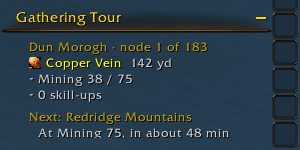
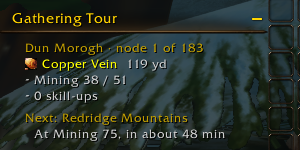
fix: gathering fixes for 0.1.1 (#52)
* fix: gathering fixes for 0.1.1

A closed Gathering page redrew its zone preview on every tour update, so
the page now draws only while the tab module reports it shown.

A page with no zone says how to import GatherMate2_Data when GatherMate2
holds no node for the player's professions, and the README and store page
list the steps.

Demonsage and Heavy Thorium Vein join the node data at skill 300, from
Wowhead's Forever object tooltips. Marefoil stays out: no source gives its
requirement.

Claude-Session: https://claude.ai/code/session_01UkMWrzUUXUNU1mLFMDKVaL

* docs: say which tours visit the nodes at the skill cap

Refs #36

Claude-Session: https://claude.ai/code/session_01UkMWrzUUXUNU1mLFMDKVaL

* fix: count the tracker's skill line to the next colour change

The skill line read the trained cap. It now reads the skill against the rank
at which a node on the loop next changes colour, and the skill alone once
none will.

Closes #53

Claude-Session: https://claude.ai/code/session_01UkMWrzUUXUNU1mLFMDKVaL

* chore: ship ForeverCore 1.17.7 so the last tracker line draws in full

Closes #49

Claude-Session: https://claude.ai/code/session_01UkMWrzUUXUNU1mLFMDKVaL

* fix: say the empty database fills from GatherMate2_Data, installed or not

The line told players to install GatherMate2_Data even when it was already
installed and only the import was missing.

Claude-Session: https://claude.ai/code/session_01UkMWrzUUXUNU1mLFMDKVaL
[…]

diff --git a/README.md b/README.md
@@ -29,7 +29,7 @@ Only the nodes still to visit get a pin, showing the herb or ore, and the next o
 
 <p align="center"><img src="docs/screenshots/gathering-tracker.png" width="300" alt="The Gathering Tour section of the objective tracker"></p>
 
-The objective tracker shows the next node and its distance, your place in the loop, each skill and your skill-ups, what you gathered, your gold per hour and the zone to move on to.
+The objective tracker shows the next node and its distance, your place in the loop, each skill against the next node colour change, your skill-ups, what you gathered, your gold per hour and the zone to move on to.
 
 <p align="center"><img src="docs/screenshots/gathering-map-setting-off.png" width="960" alt="The same map with Only show Gathering pins on the map turned off, showing every GatherMate2 icon"></p>
 
@@ -52,6 +52,13 @@ Farm for a list instead: add herbs and ores, type how many you need of each, and
 Download the zip from [Releases](https://github.com/cjber/gathering-guide-forever/releases) and extract it into the WoW: Forever client's `Interface/AddOns/` folder (`_forever_` on the live client), so you end up with `AddOns/GatheringGuideForever/GatheringGuideForever.toc`. The zip includes ForeverCore, so there is nothing else to install.
 
 It needs [GatherMate2](https://www.curseforge.com/wow/addons/gathermate2) for node locations and [Shortest Path Forever](https://www.curseforge.com/wow/addons/shortest-path-forever) to walk a tour. Without Shortest Path Forever you can still plan.
+
+GatherMate2 starts with no node locations and records each node you gather. To fill it at once:
+
+1. Install [GatherMate2_Data](https://www.curseforge.com/wow/addons/gathermate2_data) and enable it.
+2. Type `/gathermate` and open Import.
+3. Under Databases to Import, tick Herbalism and Mining.
+4. Click Import GatherMate2Data.
 
 ## Quickstart
 
@@ -83,7 +90,7 @@ Saved farming settings from Shortest Path Forever are read once and never change
 - The time to a skill assumes the same loop every lap. It is left off when the loop's nodes cannot take you that far.
 - Nodes are whatever your GatherMate2 database holds.
 - Node and item names are in English in every client language.
-- Heavy Thorium Veins, Demonsage and Marefoil are left out: the skill they need is not known yet.
+- Marefoil is left out: the skill it needs is not known yet.
 
 ## Credits
 
@@ -128,6 +135,6 @@ python3 tools/repo_rules.py
 
 [AGENTS.md](AGENTS.md) lists the full gate.
 
-**Releasing:** move the `[Unreleased]` notes in `CHANGELOG.md` under `## [X.Y.Z] - YYYY-MM-DD`, then `git tag -s vX.Y.Z && git push --tags`.
+**Releasing:** `python3 tools/changelog.py release X.Y.Z` writes that version's `CHANGELOG.md` section from the notes in `changes/`. Merge it, then `git tag -s vX.Y.Z && git push origin vX.Y.Z`.
 
 See [CONTRIBUTING](https://github.com/cjber/.github/blob/main/CONTRIBUTING.md) and [SECURITY](https://github.com/cjber/.github/blob/main/SECURITY.md).

diff --git a/docs/curseforge.md b/docs/curseforge.md
@@ -2,6 +2,8 @@ Gathering Guide Forever plans a mining and herbalism skill-up tour in WoW: Forev
 
 It needs [GatherMate2](https://www.curseforge.com/wow/addons/gathermate2) for node locations and [Shortest Path Forever](https://www.curseforge.com/wow/addons/shortest-path-forever) to walk a tour.
 
+GatherMate2 starts with no node locations and records each node you gather. To fill it at once, install [GatherMate2_Data](https://www.curseforge.com/wow/addons/gathermate2_data), type `/gathermate`, open Import, tick Herbalism and Mining and click Import GatherMate2Data.
+
 Free, with nothing locked behind it. If it saves you time, you can [sponsor me on GitHub](https://github.com/sponsors/cjber), which takes no fees, or [buy me a coffee on Ko-fi](https://ko-fi.com/cjber). For help and each day's release notes, [join me on Discord](https://discord.gg/FpHugGxRJY).
 
 [![Join me on Discord](https://raw.githubusercontent.com/cjber/gathering-guide-forever/main/docs/discord-button.png)](https://discord.gg/FpHugGxRJY) [![Sponsor me on GitHub](https://raw.githubusercontent.com/cjber/gathering-guide-forever/main/docs/github-sponsors-button.png)](https://github.com/sponsors/cjber) [![Support me on Ko-fi](https://raw.githubusercontent.com/cjber/gathering-guide-forever/main/docs/kofi-button.png)](https://ko-fi.com/cjber)
@@ -24,7 +26,7 @@ Only the nodes still to visit get a pin on the world map, showing the herb or or
 
 ![The Gathering Tour section of the objective tracker](https://raw.githubusercontent.com/cjber/gathering-guide-forever/main/docs/screenshots/gathering-tracker.png)
 
-The objective tracker shows the next node and its distance, your place in the loop, each skill and your skill-ups, what you gathered, your gold per hour and the zone to move on to.
+The objective tracker shows the next node and its distance, your place in the loop, each skill against the next node colour change, your skill-ups, what you gathered, your gold per hour and the zone to move on to.
 
 ![A farming list and the best zone to farm it](https://raw.githubusercontent.com/cjber/gathering-guide-forever/main/docs/screenshots/gathering-list.png)
 
@@ -44,7 +46,7 @@ These images are captures from the game client.
 
 Skill-up chances follow Classic's rule: certain while your skill is under 25 above a node's requirement, then 75%, 25% and never from 100 above. WoW: Forever may differ.
 
-Node and item names are in English in every client language. Heavy Thorium Veins, Demonsage and Marefoil are left out: the skill they need is not known yet.
+Node and item names are in English in every client language. Marefoil is left out: the skill it needs is not known yet.
 
 A lap takes at least ten minutes, the assumed time a node needs to respawn: no source gives Forever's real time. A zone's rate also counts the trip there from where you stand when it is planned. The time to a skill is left off when a loop's nodes cannot take you that far.
 

diff --git a/THIRD_PARTY.md b/THIRD_PARTY.md
@@ -8,9 +8,10 @@ whether any of it reaches the zip players install. The addon itself is GPL-3.0-o
 | Input | Used for | Pin | Licence |
 |---|---|---|---|
 | [Shortest Path Forever](https://github.com/cjber/shortest-path-forever) | The loop order (`Journey/Order.lua`) and the stop batching (`Journey/Tour.lua`) are ported from its farming tour, `Journey/FarmingOrder.lua` and `Journey/FarmingCursor.lua` | Its `main` branch when ported | GPL-3.0-or-later |
-| [SkillUp Forever](https://github.com/cjber/skillup-forever) `Data/Sources.lua`, from [CMaNGOS classic-db](https://github.com/cmangos/classic-db) and wago.tools | The skill each herb and ore node needs, in `Data/NodeSkills.lua` | classic-db `22b51464f1625f6ef6275771de1f5466c6f5d19e`; wago.tools Lock, `wow_classic_beta 1.60.1.70959` | GPL-3.0 |
+| [SkillUp Forever](https://github.com/cjber/skillup-forever) `Data/Sources.lua`, from [CMaNGOS classic-db](https://github.com/cmangos/classic-db) and wago.tools | The skill each herb and ore node needs, in `Data/NodeSkills.lua`, except Demonsage and Heavy Thorium Vein | classic-db `22b51464f1625f6ef6275771de1f5466c6f5d19e`; wago.tools Lock, `wow_classic_beta 1.60.1.70959` | GPL-3.0 |
 | [GatherMate2](https://www.curseforge.com/wow/addons/gathermate2) by Kagaro, Xinhuan, Nevcairiel and Ammo | The node ID numbers and English names in `Data/NodeNames.lua`, from its `Constants.lua`. Node locations are read from the player's own database at runtime; `Core/GatherMate.lua` is a reader written for this addon | GatherMate2 1.52.7 | GPL-2.0-or-later |
-| [wago.tools](https://wago.tools/db2/ItemSparse) ItemSparse | The item ID of each herb and ore, in `Data/Items.lua` | `1.60.1.71091` | Game data |
+| [wago.tools](https://wago.tools/db2/ItemSparse) ItemSparse | The item ID of each herb and ore, in `Data/Items.lua` | `1.60.1.71091`; Demonsage and Heavy Thorium Ore `1.60.1.71139` | Game data |
+| Wowhead's Forever tooltips for objects [566786](https://nether.wowhead.com/forever/tooltip/object/566786) and [566779](https://nether.wowhead.com/forever/tooltip/object/566779) | The skill Demonsage and Heavy Thorium Vein need, in `Data/NodeSkills.lua` | Read 27 November 2026 | Game data |
 
 The map pins in `media/Nodes/`, one per herb and ore, are original art made for this addon with AI assistance
 (Google's `gemini-nano-banana-2.1`) and no Blizzard art. `tools/export_nodes.py` exports them from the originals in

diff --git a/CHANGELOG.md b/CHANGELOG.md
@@ -8,6 +8,22 @@ Added/Fixed lists.
 
 Each version's entry is also its release notes on GitHub and CurseForge.
 
+## [0.1.1] - 2026-11-27
+
+### Added
+
+- **Demonsage and Heavy Thorium Veins.** Both now show on the zone pages and in the farming list, at skill 300, with Demonsage and Heavy Thorium Ore as list items. They give no skill-up at the skill cap, so farming list tours visit them, and zone tours do with **Skip nodes with no skill-up** turned off.
+
+### Changed
+
+- **An empty GatherMate2 database says what to do.** With no nodes for your professions, the Gathering page explains how to import them with GatherMate2_Data, and the README lists the steps.
+
+### Fixed
+
+- **The tracker counts to the next colour change.** Each skill line shows your skill against the rank at which a node on the loop next changes colour, such as Mining 38 / 51 on a Copper loop, in place of your trained cap.
+- **A closed Gathering page stays off the map.** A tour update no longer brings back the pins of the zone you were viewing after you close the page.
+- **The last tracker line is drawn in full.** Letters such as g and y, and commas, keep their lower parts.
+
 ## [0.1.0] - 2026-11-26
 
 <!-- discord-image: docs/screenshots/gathering-tour.png -->

diff --git a/AGENTS.md b/AGENTS.md
@@ -31,7 +31,8 @@ required check. `headless-smoke` is a commit status posted from the in-game agen
 - Shortest Path Forever is reached only through `Core/Navigation.lua`, using its published `ShortestPathForever.API`
   (`NavigateRoute` with `{policy = "walking"}`, `ObserveStops`, `JourneyState`, `Cancel`, `Estimate`). Settings may read
   its saved farming options once, read-only. `tools/repo_rules.py` enforces this.
-- Node skill requirements are `Data/NodeSkills.lua`, copied from SkillUp Forever's data; GatherMate2 does not hold them.
+- Node skill requirements are `Data/NodeSkills.lua`, copied from SkillUp Forever's data; GatherMate2 does not hold
+  them. A node new in WoW: Forever takes its row from a source named in that file and `THIRD_PARTY.md`.
 - Atlases from the client only, native aspect (`ns.Fit`), except the map pins, which are the addon's own art
   (`media/Nodes/`, `tools/export_nodes.py`). No minimap button, no chat messages. Vendored
   `tools/forever_tools` and `tools/forever_sim` refresh with
